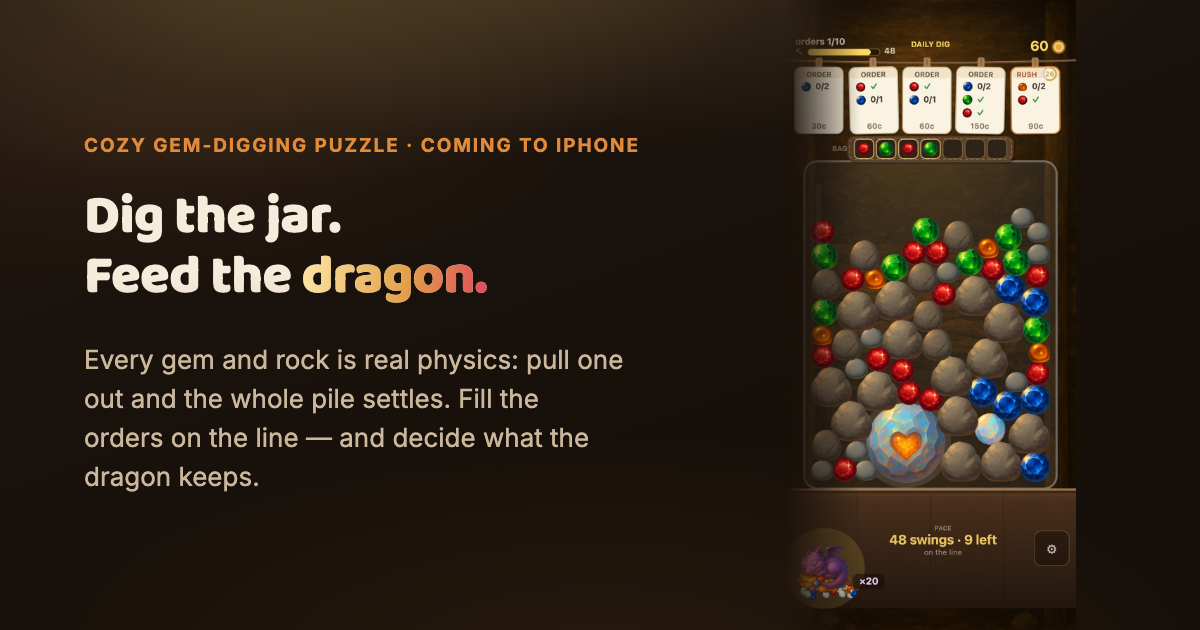
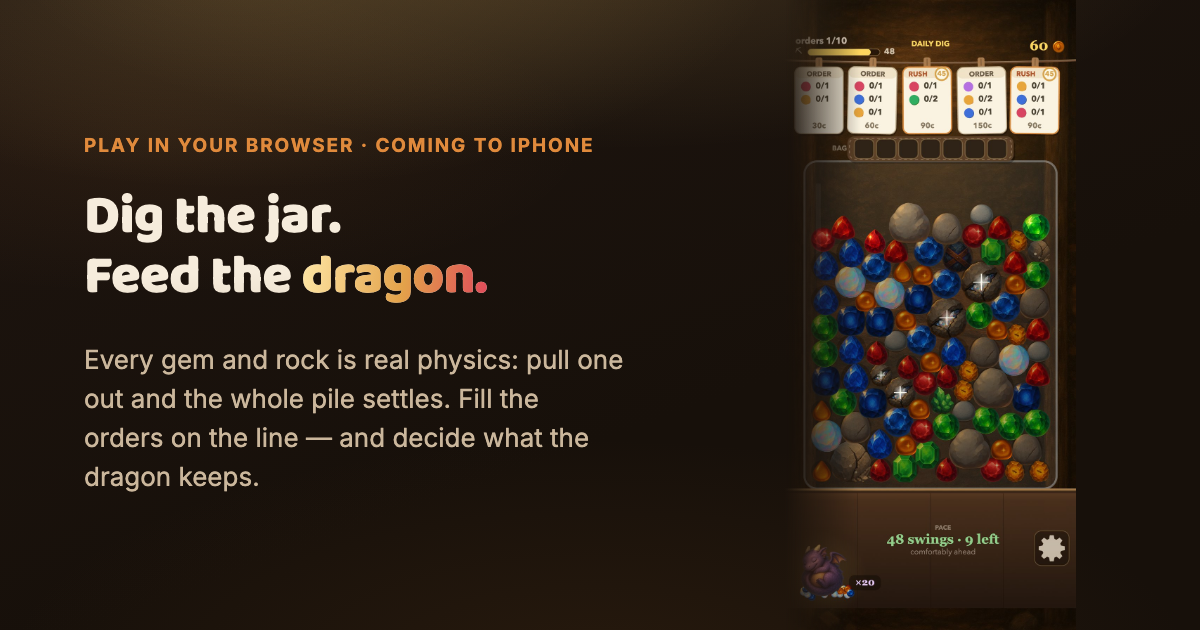
Gemburrow: re-render the card, and stop hiding that it is playable now
Two things, now that the concurrent session has landed its Gemburrow work
(3ff1274) and the tree is clean.

1. RE-RENDERED, which clears the FAIL that has been standing in --check for
   several commits. It was never a defect in this repo's copy: the card renders
   from shots/daily.jpg, and that file plus six siblings were sitting modified
   in the shared tree. Re-rendering earlier would have baked someone's
   half-finished screenshots into a committed image. It waited, correctly.
   --check is now 13/13 ok, exit 0, for the first time today.

2. KICKER: "Cozy gem-digging puzzle · Coming to iPhone" -> "Play in your browser
   · coming to iPhone". /gemburrow/play/ returns 200 and the product page itself
   leads with "Play free in your browser", so the card was advertising only the
   thing you cannot do yet and omitting the thing you can. 38 chars against the
   41 it replaces, so the .kicker white-space:nowrap still clears — checked
   before writing, and confirmed in the rendered PNG.

   "free" deliberately left out of the kicker even though the page says it: it
   buys nothing at 19px and the price word is a habit worth not spreading.

Cache-buster bumped to ?v=20260821b on og:image and twitter:image. Without it
every scraper holding the old card keeps serving "Coming to iPhone" for a game
that has been playable for weeks.

diff --git a/gemburrow/index.html b/gemburrow/index.html
@@ -17,14 +17,14 @@
   <meta property="og:description" content="A cozy gem-digging puzzle for iPhone. Every gem and rock is real physics: pull one out and the whole pile settles.">
   <meta property="og:url" content="https://hypersage.ai/gemburrow/">
   <meta property="og:site_name" content="Gemburrow">
-  <meta property="og:image" content="https://hypersage.ai/gemburrow/og-image.png?v=20260821a">
+  <meta property="og:image" content="https://hypersage.ai/gemburrow/og-image.png?v=20260821b">
   <meta property="og:image:width" content="1200">
   <meta property="og:image:height" content="630">
   <meta property="og:image:alt" content="Gemburrow — a cozy gem-digging puzzle set in a mole's underground gem shop">
   <meta name="twitter:card" content="summary_large_image">
   <meta name="twitter:title" content="Gemburrow — Dig the jar. Fill the orders. Feed the dragon.">
   <meta name="twitter:description" content="A cozy gem-digging puzzle for iPhone. Pull one gem and the whole pile settles.">
-  <meta name="twitter:image" content="https://hypersage.ai/gemburrow/og-image.png?v=20260821a">
+  <meta name="twitter:image" content="https://hypersage.ai/gemburrow/og-image.png?v=20260821b">
   <meta name="twitter:image:alt" content="Gemburrow — a cozy gem-digging puzzle for iPhone">
 
   <link rel="icon" type="image/png" href="app-icon-512.png?v=20260821a">

diff --git a/tools/build_app_og.py b/tools/build_app_og.py
@@ -404,7 +404,11 @@ CARDS = {
          -webkit-mask-image: linear-gradient(90deg, transparent 0%, #000 26%, #000 100%);
          mask-image: linear-gradient(90deg, transparent 0%, #000 26%, #000 100%); }
 """,
-        "kicker": "Cozy gem-digging puzzle \u00b7 Coming to iPhone",
+        # Playable at /gemburrow/play/ (200) since before 2026-08-21; the product page
+        # itself leads with "Play free in your browser". A card that says only
+        # "Coming to iPhone" hides the thing a sharer can do right now. 38 chars,
+        # shorter than the 41 it replaces, so the nowrap above still clears.
+        "kicker": "Play in your browser \u00b7 coming to iPhone",
         "h1": 'Dig the jar.<br>Feed the <span class="grad">dragon.</span>',
         "sub": "Every gem and rock is real physics: pull one out and the whole pile settles. Fill the orders on the line \u2014 and decide what the dragon keeps.",
     },
